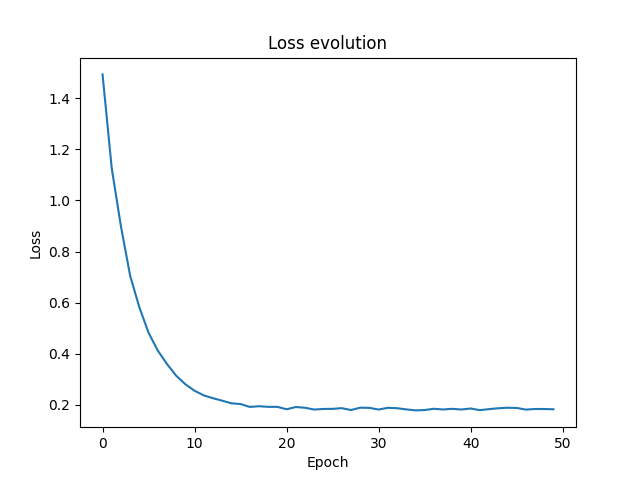
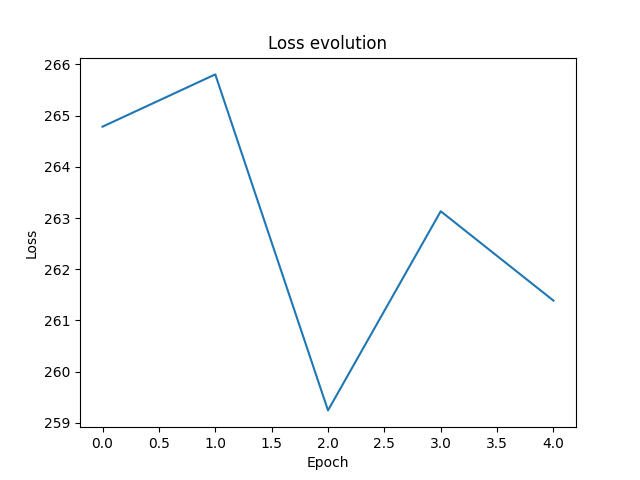
Maj

diff --git a/src/V2/model.py b/src/V2/model.py
@@ -1,25 +1,26 @@
 import torch
-from torch import nn, max, min
-from utils import *
+from math import log
+from torch import nn
+from utils import sigmoid
 from graph import Graph
 from datamanager import DataManager
 
 class BasicRGCN (nn.Module):
-    def __init__(self, graph: Graph, in_features, out_features, data_manager: DataManager):
+    def __init__(self, graph: Graph, in_features, out_features, data_manager: DataManager, layer_count=2):
         super().__init__()
         self.graph = graph
         self.relations_count = self.graph.get_relations_count_without_self_loop()
         self.data_manager = data_manager
+        self.model = nn.Sequential()
 
-        self.cl1 = ConvolutionalLayer(self.relations_count, in_features, out_features)
-        self.cl2 = ConvolutionalLayer(self.relations_count, in_features, out_features)
-        self.dm = DistMult(out_features, self.relations_count)
+        for i in range (layer_count):
+            self.model.append(ConvolutionalLayer(self.relations_count, in_features, out_features))
+
+        self.model.append(DistMult(out_features, self.relations_count))
+        # self.model.append(nn.Tanh())
 
     def forward(self, x):
-        new_graph = self.cl1.forward(self.graph)
-        new_graph = self.cl2.forward(new_graph)
-
-        pred = self.dm.forward(new_graph)
+        pred = self.model.forward(self.graph)
 
         batch_size = len(x[0])
         res = torch.empty(batch_size)
@@ -108,24 +109,23 @@ class CustomLoss(nn.Module):
     def __init__(self):
         super().__init__()
         
-    def forward (self, predicted_value, graph: Graph):
-        entities_count = graph.get_entities_count()
-        adjacency_matrixes = graph.get_adjacency_matrices()
-        
-        device = adjacency_matrixes.device
+    def forward (self, predicted_values, labels):
+        device = predicted_values.device
+        loss = torch.zeros(1, requires_grad=True).to(device)
 
-        loss = torch.empty(graph.get_relations_count()).to(device)
-        ones = torch.ones(entities_count).to(device)
+        negative_examples, positive_examples = 0, 0
 
-        for i in range(0, graph.get_relations_count()):
-            a = torch.mul(adjacency_matrixes[i], torch.log(torch.sigmoid(predicted_values[i]).to(device)))
-            b = torch.mul(torch.sub(ones, adjacency_matrixes[i]), torch.log(torch.sub(ones, torch.sigmoid(predicted_values[i]).to(device))))
+        for i in range(labels.size()[0]):
+            label = labels[i]
 
-            loss[i] = torch.sum(torch.add(a, b))
+            if label.item() == 0:
+                negative_examples += 1
+            else:
+                positive_examples += 1
 
-        loss = -1 * torch.sum(loss)
-        return loss
+            predicted_value = predicted_values[i]
+            
+            sigmoid_value = torch.sigmoid(predicted_value).to(device)            
+            loss += label * torch.log(sigmoid_value) + (1 - label) * torch.log(1 - sigmoid_value)
 
-        # positive = torch.count_nonzero(adjacency_matrixes).item()
-        # negative = (entities_count**2) * graph.get_relations_count() - positive        
-        # return (-1 / ((1 + negative) * positive)) * loss.sum()
+        return (-1 / ((1 + negative_examples) * positive_examples)) * loss

diff --git a/src/V2/train.py b/src/V2/train.py
@@ -6,9 +6,10 @@ import matplotlib.pyplot as plt
 from relationdataset import RelationDataset
 from torch.utils.data import DataLoader, random_split
 
-trainig_losses = []
-batch_size = 200
-epoch_number = 50
+training_losses = []
+testing_accuracy = []
+batch_size = 100
+epoch_number = 5
 
 def retrieve_data():
     repository = Repository()
@@ -65,6 +66,8 @@ def train(train_dataloader, model, loss_fn, optimizer, device):
         y = y.to(device)
         # Compute prediction error
         pred = model(x).to(device)
+        print(pred.size())
+        print(torch.max(pred), torch.min(pred))
         loss = loss_fn(pred, y)
 
         # Backpropagation
@@ -72,15 +75,15 @@ def train(train_dataloader, model, loss_fn, optimizer, device):
         optimizer.step()
         optimizer.zero_grad()
 
-        loss = loss.item()
+        loss_value = loss.item()
         passed_examples += len(x[0])
-        average_loss += loss
+        average_loss += loss_value
         print(f"Loss: {loss:>7f}  [{passed_examples:>5d}/{size:>5d}]")
-    
+
     average_loss /= batch + 1
     print(f'-> Average loss : {average_loss:>7f}')
     
-    trainig_losses.append(average_loss)
+    training_losses.append(average_loss)
 
 def test(test_dataloader, model, loss_fn):
     size = len(test_dataloader.dataset)
@@ -97,8 +100,10 @@ def test(test_dataloader, model, loss_fn):
 
     test_loss /= num_batches
     correct /= size
+    accuracy = 100*correct
+    testing_accuracy.append(accuracy)
 
-    print(f"\nTest Error:\nAccuracy: {(100*correct):>0.1f}%, Avg loss: {test_loss:>8f} \n")
+    print(f"\nTest Error:\nAccuracy: {(accuracy):>0.1f}%, Avg loss: {test_loss:>8f} \n")
 
 if __name__ == '__main__':
     torch.autograd.set_detect_anomaly(True)
@@ -115,13 +120,13 @@ if __name__ == '__main__':
     print(graph)
     
     ## Construct Dataset
-    relations_dataset = create_dataset(data_relations, data_manager, 400)
+    relations_dataset = create_dataset(data_relations, data_manager, negative_samples_count=800)
 
-    rgcn = BasicRGCN(graph=graph, in_features=2, out_features=2, data_manager=data_manager).to(device)
+    rgcn = BasicRGCN(graph=graph, in_features=2, out_features=2, data_manager=data_manager, layer_count=2).to(device)
     print(rgcn, '\n')
 
-    loss_fn = nn.MSELoss()
-    optimizer = torch.optim.SGD(rgcn.parameters(), lr=0.01)
+    loss_fn = nn.CrossEntropyLoss()
+    optimizer = torch.optim.SGD(rgcn.parameters(), lr=0.1)
     
     for epoch in range (epoch_number):
         training_dataset, testing_dataset = split_data_relations(relations_dataset)
@@ -137,8 +142,15 @@ if __name__ == '__main__':
     torch.save(rgcn.state_dict(), "./model.pth")
     print("Saved PyTorch Model State to model.pth")
 
-    plt.plot(trainig_losses)
+    plt.plot(training_losses)
     plt.title("Loss evolution")
     plt.xlabel("Epoch")
     plt.ylabel("Loss")
     plt.savefig('./loss.png')
+    plt.close()
+
+    plt.plot(testing_accuracy)
+    plt.title("Accuracy evolution")
+    plt.xlabel("Epoch")
+    plt.ylabel("Accuracy")
+    plt.savefig('./accuracy.png')
